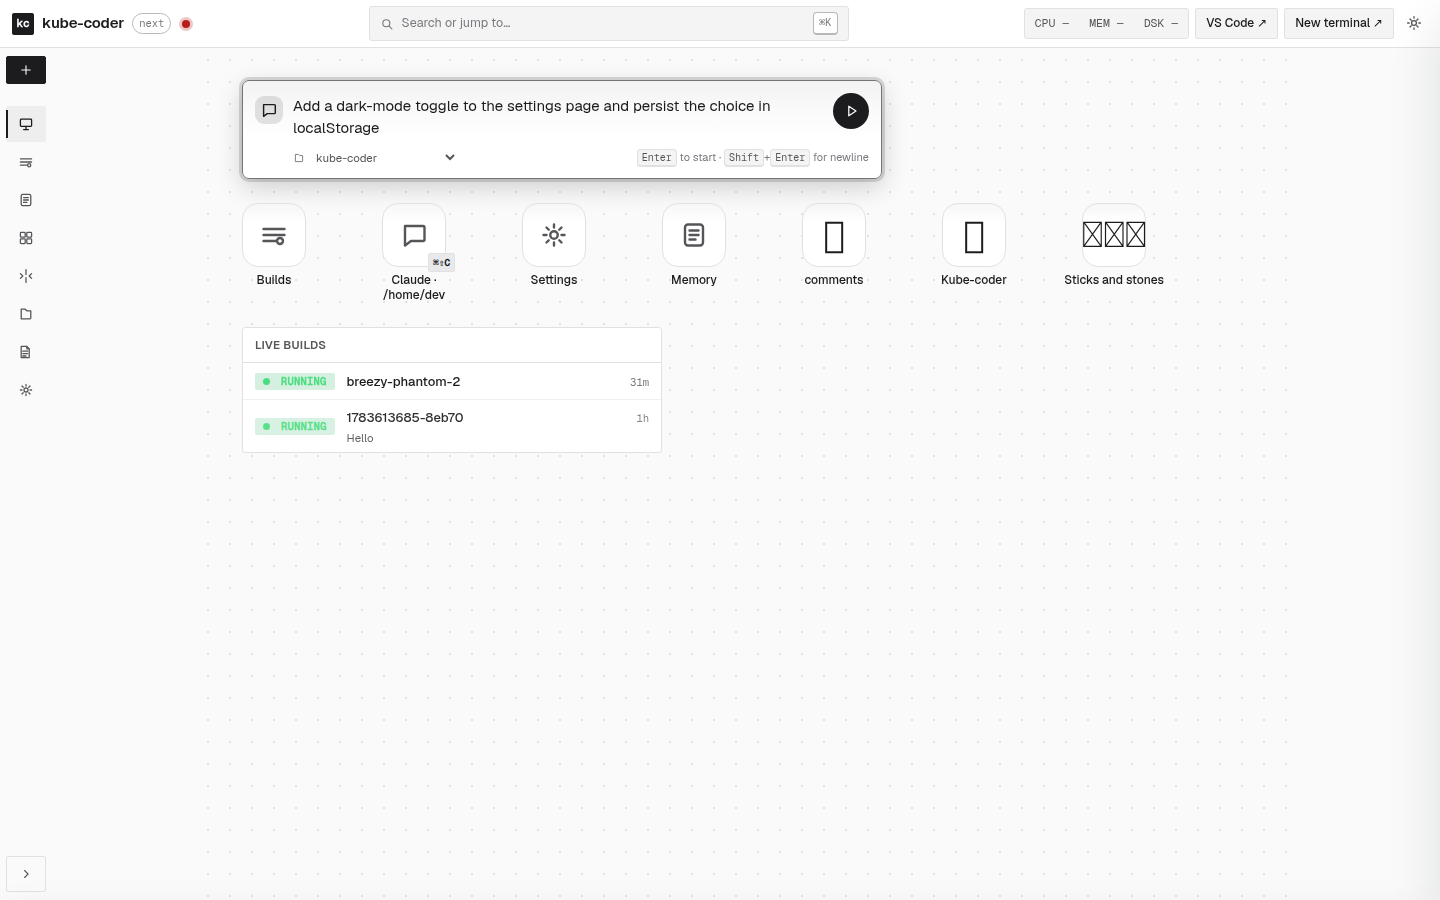
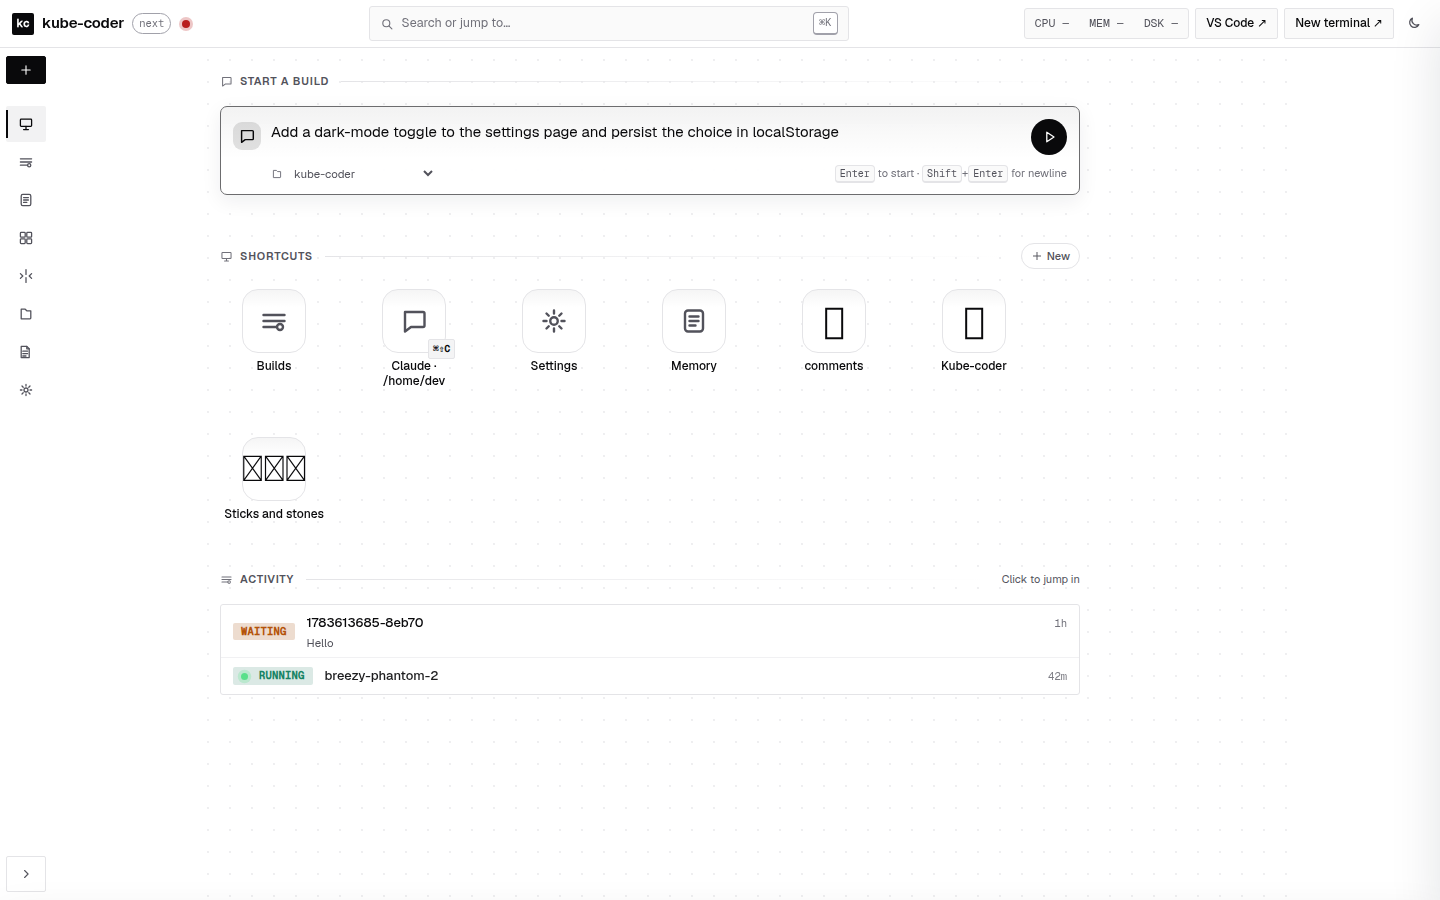
refactor(desktop): unify page into labeled sections with separators
Polish the Desktop layout so it reads as a designed workspace rather than
stacked widgets. Everything now lives in one constrained, left-anchored
column, and each block is announced by a clean section header — a small
uppercase label with a leading glyph and a hairline rule that fades to the
column edge:

  • Start a build — the prompt composer
  • Shortcuts     — the icon grid (+ an inline "New" action in the header)
  • Activity      — the live-builds feed

- New reusable `DesktopSection` (label + fading rule + optional meta/action).
- Composer, grid, and activity feed all share one column width + left/right
  edge for a consistent vertical rhythm; removed the old ad-hoc per-widget
  offsets and max-widths.
- Composer + activity now render inside labeled sections; the bulletin drops
  its bespoke card header in favor of the shared section header and spans the
  full column.
- Empty-state, mobile (left-anchored, tighter rhythm), and reduced-motion all
  preserved.

diff --git a/charts/workspace/web/src/routes/desktop/desktop.css b/charts/workspace/web/src/routes/desktop/desktop.css
@@ -23,6 +23,90 @@
 }
 
 /* ────────────────────────────────────────────────────────────────
+   Page column + labeled sections. Everything lives in one constrained,
+   left-anchored column so the composer, shortcuts, and activity feed
+   share a single vertical rhythm and left edge — the "designed
+   workspace" feel. Each section is announced by a small uppercase label
+   with a hairline rule running to the column edge.
+   ──────────────────────────────────────────────────────────────── */
+.dt-page {
+  max-width: 860px;
+  display: flex;
+  flex-direction: column;
+  gap: var(--size-7);
+}
+
+.dt-section {
+  display: flex;
+  flex-direction: column;
+}
+
+.dt-section-head {
+  display: flex;
+  align-items: center;
+  gap: var(--size-3);
+  margin-bottom: var(--size-4);
+}
+.dt-section-title {
+  display: inline-flex;
+  align-items: center;
+  gap: 7px;
+  flex-shrink: 0;
+  font-size: 11px;
+  font-weight: 600;
+  letter-spacing: 0.07em;
+  text-transform: uppercase;
+  color: var(--text-muted);
+  white-space: nowrap;
+}
+.dt-section-icon {
+  display: inline-flex;
+  align-items: center;
+  color: var(--text-subtle);
+}
+/* Hairline that fills the remaining width, fading out toward the far
+   edge so it reads as a quiet divider, not a hard line. */
+.dt-section-rule {
+  flex: 1 1 auto;
+  height: 1px;
+  min-width: 24px;
+  background: linear-gradient(
+    90deg,
+    var(--border) 0%,
+    color-mix(in srgb, var(--border) 30%, transparent) 70%,
+    transparent 100%
+  );
+}
+.dt-section-meta {
+  flex-shrink: 0;
+  font-size: 11px;
+  color: var(--text-subtle);
+  white-space: nowrap;
+}
+/* Small inline "+ New" action that sits in a section header's meta slot. */
+.dt-section-action {
+  display: inline-flex;
+  align-items: center;
+  gap: 4px;
+  padding: 3px 9px;
+  border: 1px solid var(--border);
+  border-radius: 999px;
+  background: var(--surface);
+  color: var(--text-muted);
+  font: inherit;
+  font-size: 11px;
+  font-weight: 500;
+  cursor: pointer;
+  transition: color var(--motion-fast), border-color var(--motion-fast), background var(--motion-fast);
+}
+.dt-section-action:hover {
+  color: var(--text);
+  border-color: var(--border-2);
+  background: var(--surface-2);
+}
+.dt-section-action:focus-visible { outline: 2px solid var(--accent); outline-offset: 1px; }
+
+/* ────────────────────────────────────────────────────────────────
    Hero prompt composer — the top-of-Desktop "start a build" box. The
    first thing on a fresh workspace, so it carries real visual weight:
    a soft accent-tinted card, a growing input, and a prominent circular
@@ -30,9 +114,7 @@
    + bulletin so everything shares one vertical rhythm on wide screens.
    ──────────────────────────────────────────────────────────────── */
 .dt-composer {
-  margin: var(--size-2) 0 var(--size-3) 22px;
   width: 100%;
-  max-width: 640px;
   animation: dt-composer-in 320ms cubic-bezier(0.2, 0.8, 0.2, 1) both;
 }
 @keyframes dt-composer-in {
@@ -218,7 +300,9 @@
      row above — the prior --size-6 (32px) made Settings stack tightly
      under Claude. --size-7 (48px) gives proper desktop-icon breathing. */
   gap: var(--size-7) var(--size-4);
-  margin-top: var(--size-5);
+  /* A touch of top padding so the first row's floating hover chrome
+     doesn't kiss the section rule. Section header owns the outer gap. */
+  padding-top: var(--size-1);
 }
 
 .dt-cell {
@@ -558,15 +642,11 @@
    Reads as a quiet card; no shadow, hairline border, tight density.
    ──────────────────────────────────────────────────────────────── */
 
-/* Widget-sized bulletin — left-aligned to the icon BADGE column (not
-   the cell column). The cell is 108px wide with a 64px badge centered
-   inside it → the badge starts 22px in from the cell-left. We offset
-   the bulletin by the same 22px so its left edge visually matches the
-   icon column's center-of-badge alignment on wide screens. */
+/* Activity feed — a quiet bordered card holding the live-build rows. The
+   section header (label + rule) sits above it; the card itself is just
+   the list, full column width, so it reads as a real activity panel. */
 .dt-bulletin {
-  margin: var(--size-5) 0 0 22px;
   width: 100%;
-  max-width: 420px;
   background: color-mix(in srgb, var(--surface) 92%, transparent);
   border: 1px solid var(--border);
   border-radius: var(--radius);
@@ -574,22 +654,7 @@
   backdrop-filter: blur(4px);
   -webkit-backdrop-filter: blur(4px);
 }
-
-.dt-bulletin-head {
-  display: flex;
-  align-items: baseline;
-  gap: var(--size-2);
-  padding: 8px 12px;
-  border-bottom: 1px solid var(--border);
-}
-.dt-bulletin-title {
-  font-size: 11.5px;
-  font-weight: 600;
-  letter-spacing: 0.02em;
-  text-transform: uppercase;
-  color: var(--text-muted);
-}
-.dt-bulletin-sub { font-size: 11px; display: none; }
+.dt-bulletin-hint { font-size: 11px; }
 
 .dt-bulletin-empty { padding: 10px 12px; font-size: 11.5px; }
 
@@ -804,28 +869,27 @@
 
 @media (max-width: 720px) {
   .route-desktop { padding: var(--size-3); }
-  /* Composer spans the phone width and centers with the grid. */
-  .dt-composer { margin: 0 auto var(--size-3); max-width: 100%; }
+  /* Tighter section rhythm on phones. */
+  .dt-page { gap: var(--size-6); }
+  .dt-section-head { margin-bottom: var(--size-3); }
   .dt-composer-input { font-size: 15px; } /* keep ≥16px?—14/15 avoids iOS zoom w/ our meta */
   .dt-composer-foot { padding-left: 0; }
   .dt-composer-hint { display: none; } /* no physical keyboard — hide the hint */
   .dt-composer-workdir { max-width: 100%; }
-  /* Mobile: shrink icons ~30% (64 → 45) and center the whole grid +
-     bulletin so they sit balanced on phones rather than anchored to
-     the left edge. Desktop stays left-anchored (above) — the bigger
-     viewport handles the offset better. */
+  /* Mobile: shrink icons ~30% (64 → 45). Stay LEFT-anchored so the grid
+     lines up under the section label — the sectioned layout reads as one
+     tidy column rather than a centered island. */
   .dt-grid {
     grid-template-columns: repeat(auto-fill, 86px);
     gap: var(--size-5) var(--size-3);
-    justify-content: center;
+    justify-content: start;
   }
   .dt-cell { max-width: 86px; }
   .dt-cell-label { font-size: 11px; max-width: 86px; }
   .dt-cell-icon { width: 45px; height: 45px; border-radius: 12px; font-size: 24px; }
   .dt-cell-icon-emoji { font-size: 24px; }
   .dt-cell-icon svg { width: 21px; height: 21px; }
-  /* Bulletin centered to match the centered icon grid. */
-  .dt-bulletin { margin-left: auto; margin-right: auto; }
+  .dt-bulletin { max-width: 100%; }
   /* Bulletin row layout adapts naturally — flex column wraps the body
      content; tag stays on the left, time on the right. Smaller padding
      so the widget feels tighter on phones. */

diff --git a/charts/workspace/web/src/routes/desktop/index.tsx b/charts/workspace/web/src/routes/desktop/index.tsx
@@ -23,6 +23,7 @@ import { serverMode } from '../../store/server-mode';
 import { DesktopEditor } from './DesktopEditor';
 import { DesktopBulletin } from './DesktopBulletin';
 import { DesktopPrompt } from './DesktopPrompt';
+import { DesktopSection } from './DesktopSection';
 import './desktop.css';
 
 /** Render either an emoji/text icon or a named lucide-style line icon
@@ -145,45 +146,69 @@ export function DesktopRoute() {
 
   return (
     <div class="route route-desktop" ref={surfaceRef} onClick={onSurfaceClick}>
-      {error && <div class="dt-error" data-dt-stop="true" role="alert">{error}</div>}
+      <div class="dt-page">
+        {error && <div class="dt-error" data-dt-stop="true" role="alert">{error}</div>}
 
-      {/* Hero prompt composer — always at the top, above icons + bulletin.
-          Suppressed for read-only visitors who can't start builds. */}
-      {!serverMode.value.readOnly && <DesktopPrompt />}
+        {/* Hero prompt composer — always the first section. Suppressed for
+            read-only visitors who can't start builds. */}
+        {!serverMode.value.readOnly && (
+          <DesktopSection
+            class="dt-section-compose"
+            title="Start a build"
+            icon={<Icon name="chat" size={13} />}
+          >
+            <DesktopPrompt />
+          </DesktopSection>
+        )}
 
-      {loaded && items.length === 0 ? (
-        <EmptyState
-          icon={<Icon name="inbox" size={24} />}
-          title="No icons yet"
-          description="Pin a build prompt, a URL, or a shell command. Optionally bind ⌘⇧1 (or any key combo) for one-tap launch."
-          action={
-            <MutatorOnly>
-              <Button variant="primary" data-dt-stop="true" onClick={onNew}>
-                <Icon name="plus" size={14} /> Create your first icon
-              </Button>
-            </MutatorOnly>
+        <DesktopSection
+          title="Shortcuts"
+          icon={<Icon name="desktop" size={13} />}
+          meta={
+            items.length > 0 ? (
+              <MutatorOnly>
+                <button type="button" class="dt-section-action" data-dt-stop="true" onClick={onNew}>
+                  <Icon name="plus" size={12} /> New
+                </button>
+              </MutatorOnly>
+            ) : undefined
           }
-        />
-      ) : (
-        <>
-          <div class="dt-grid" role="list">
-            {items.map((it, idx) => (
-              <DesktopCell
-                key={it.id}
-                item={it}
-                first={idx === 0}
-                last={idx === items.length - 1}
-                onLaunch={() => void launchItem(it)}
-                onEdit={() => onEdit(it)}
-                onDelete={() => setConfirmDelete(it)}
-                onMoveUp={() => void moveDesktopItem(it.id, 'up')}
-                onMoveDown={() => void moveDesktopItem(it.id, 'down')}
-              />
-            ))}
-          </div>
-          <DesktopBulletin />
-        </>
-      )}
+        >
+          {loaded && items.length === 0 ? (
+            <EmptyState
+              icon={<Icon name="inbox" size={24} />}
+              title="No icons yet"
+              description="Pin a build prompt, a URL, or a shell command. Optionally bind ⌘⇧1 (or any key combo) for one-tap launch."
+              action={
+                <MutatorOnly>
+                  <Button variant="primary" data-dt-stop="true" onClick={onNew}>
+                    <Icon name="plus" size={14} /> Create your first icon
+                  </Button>
+                </MutatorOnly>
+              }
+            />
+          ) : (
+            <div class="dt-grid" role="list">
+              {items.map((it, idx) => (
+                <DesktopCell
+                  key={it.id}
+                  item={it}
+                  first={idx === 0}
+                  last={idx === items.length - 1}
+                  onLaunch={() => void launchItem(it)}
+                  onEdit={() => onEdit(it)}
+                  onDelete={() => setConfirmDelete(it)}
+                  onMoveUp={() => void moveDesktopItem(it.id, 'up')}
+                  onMoveDown={() => void moveDesktopItem(it.id, 'down')}
+                />
+              ))}
+            </div>
+          )}
+        </DesktopSection>
+
+        {/* Self-hides when no builds are live; renders its own section. */}
+        <DesktopBulletin />
+      </div>
 
       {addPrompt && (
         <button

diff --git a/charts/workspace/web/src/routes/desktop/DesktopBulletin.tsx b/charts/workspace/web/src/routes/desktop/DesktopBulletin.tsx
@@ -1,6 +1,8 @@
 import { useEffect, useState } from 'preact/hooks';
 import { listTasks, isStaleWaiting, type TaskSummary } from '../../api/tasks';
 import { navigate } from '../../store/router';
+import { Icon } from '../../components/Icon';
+import { DesktopSection } from './DesktopSection';
 
 interface BulletinEntry {
   kind: 'build';
@@ -89,11 +91,15 @@ export function DesktopBulletin() {
   if (loaded && entries.length === 0) return null;
 
   return (
-    <section class="dt-bulletin" data-dt-stop="true" aria-label="Live builds">
-      <header class="dt-bulletin-head">
-        <span class="dt-bulletin-title">Live builds</span>
-        <span class="dt-bulletin-sub muted">Click to jump in</span>
-      </header>
+    <DesktopSection
+      class="dt-section-activity"
+      title="Activity"
+      icon={<Icon name="tasks" size={13} />}
+      meta={<span class="dt-bulletin-hint muted">Click to jump in</span>}
+      data-dt-stop="true"
+      aria-label="Live builds"
+    >
+      <div class="dt-bulletin">
       {!loaded ? (
         <ul class="dt-bulletin-list" role="list" aria-busy="true">
           {[0, 1, 2].map((i) => (
@@ -134,6 +140,7 @@ export function DesktopBulletin() {
           ))}
         </ul>
       )}
-    </section>
+      </div>
+    </DesktopSection>
   );
 }

diff --git a/charts/workspace/web/src/routes/desktop/DesktopSection.tsx b/charts/workspace/web/src/routes/desktop/DesktopSection.tsx
@@ -1,0 +1,38 @@
+import type { ComponentChildren, JSX } from 'preact';
+
+/**
+ * A labeled Desktop section: a small uppercase title, a hairline rule that
+ * runs to the edge of the column, and optional right-aligned meta (a count,
+ * a hint, or a small action). Gives the page a consistent, professional
+ * rhythm — every block reads as a deliberate section rather than stacked
+ * widgets. The header carries `data-dt-stop` so clicking a label never
+ * triggers the empty-space "Add icon?" affordance.
+ */
+export function DesktopSection({
+  title,
+  icon,
+  meta,
+  children,
+  class: klass,
+  ...rest
+}: {
+  title: string;
+  icon?: ComponentChildren;
+  meta?: ComponentChildren;
+  children: ComponentChildren;
+  class?: string;
+} & Omit<JSX.HTMLAttributes<HTMLElement>, 'title' | 'icon' | 'class'>) {
+  return (
+    <section class={`dt-section ${klass ?? ''}`} {...rest}>
+      <header class="dt-section-head" data-dt-stop="true">
+        <span class="dt-section-title">
+          {icon && <span class="dt-section-icon" aria-hidden="true">{icon}</span>}
+          {title}
+        </span>
+        <span class="dt-section-rule" aria-hidden="true" />
+        {meta != null && <span class="dt-section-meta">{meta}</span>}
+      </header>
+      {children}
+    </section>
+  );
+}
